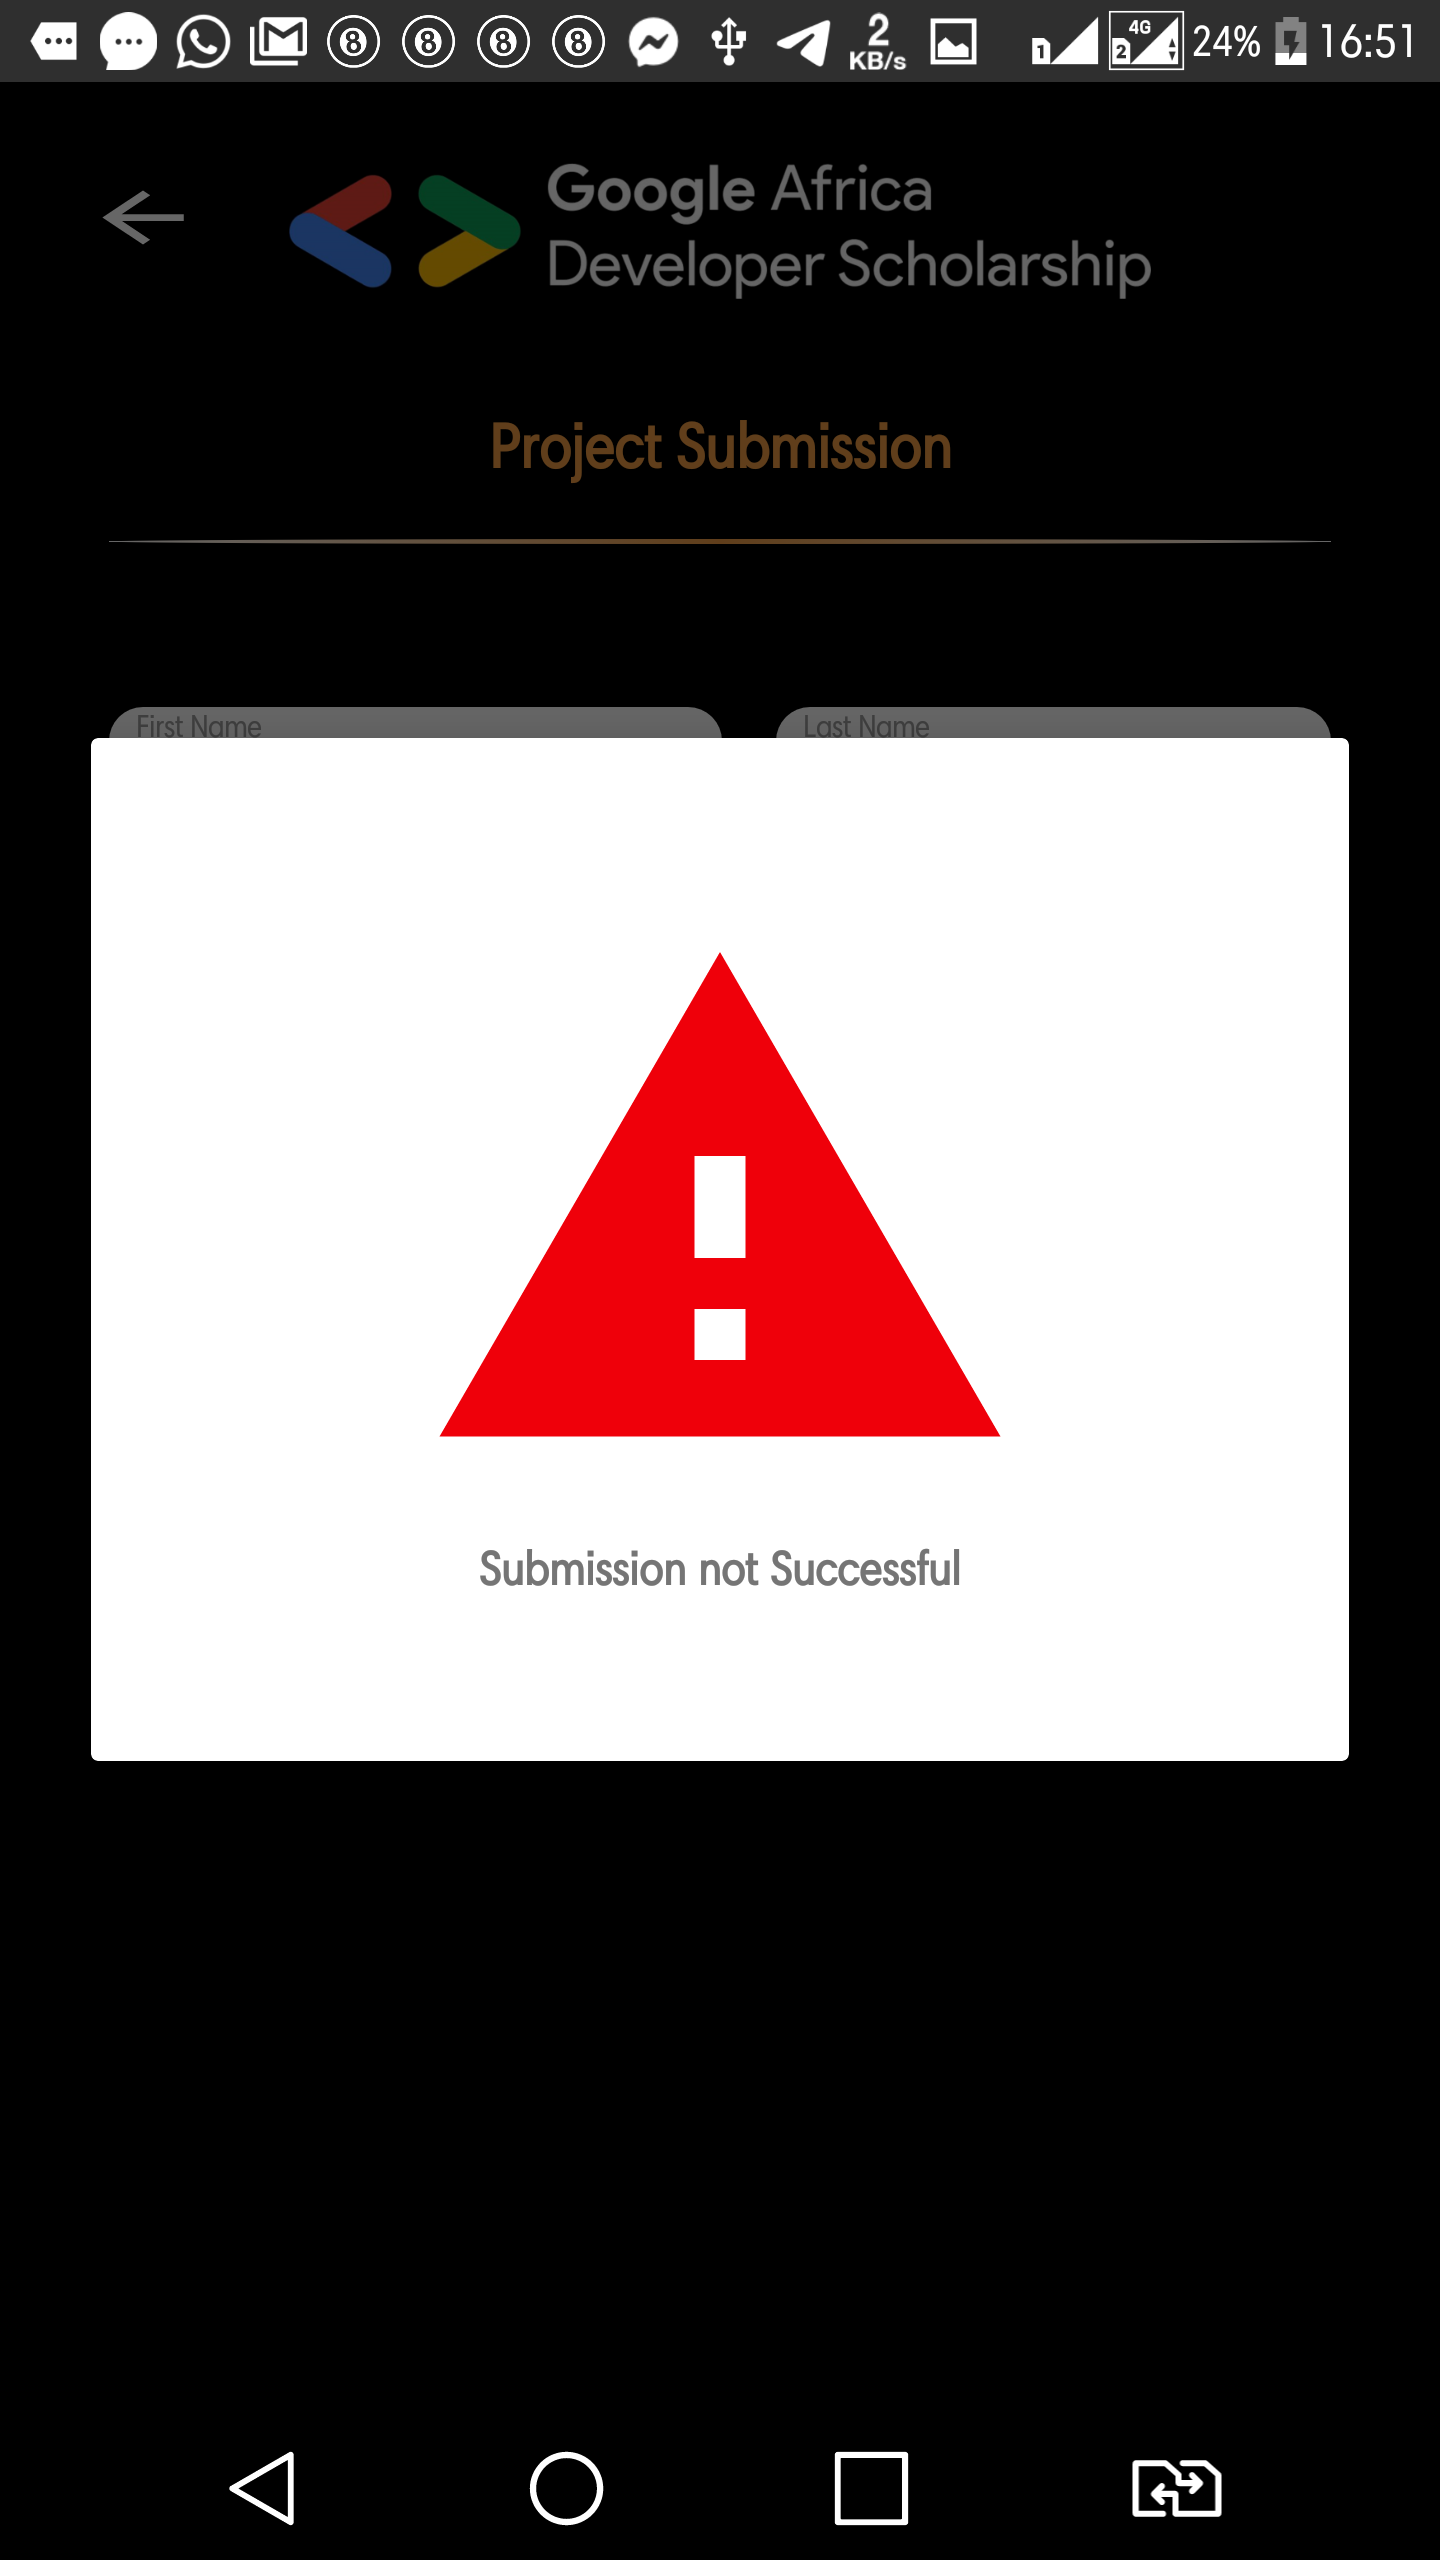
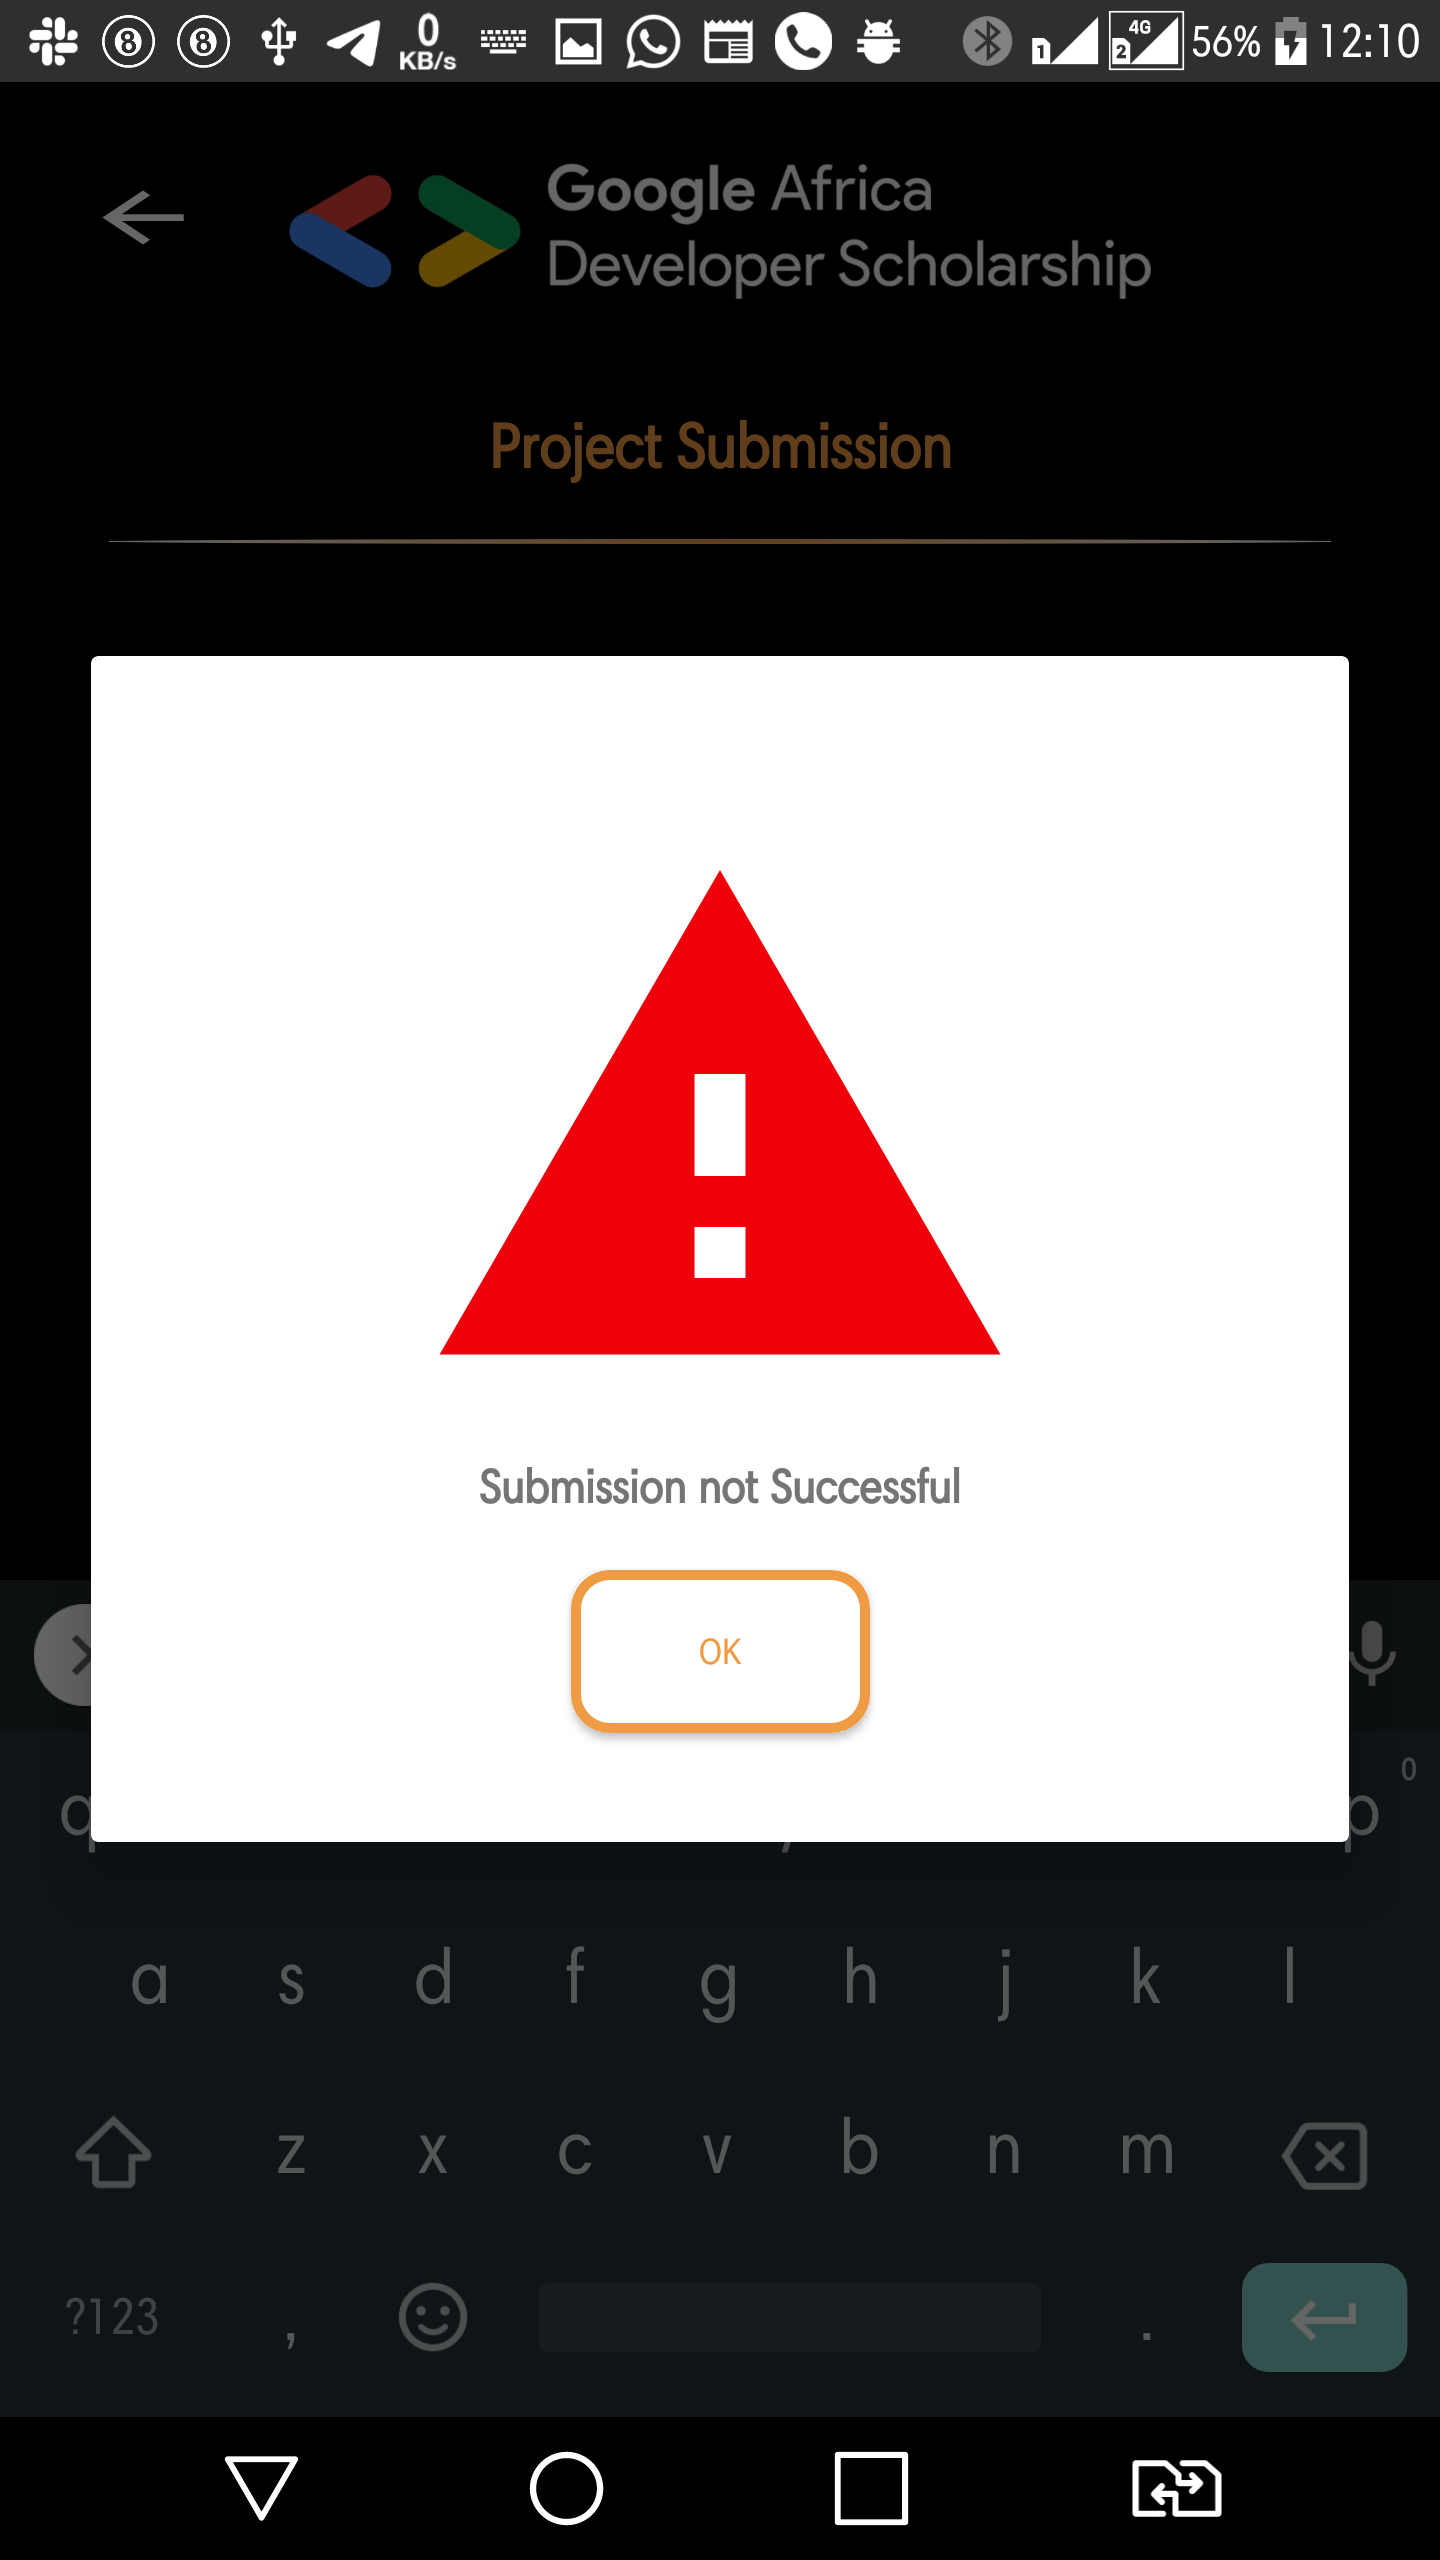
update

diff --git a/app/src/main/java/com/maro/gadspracticeprojectmaroafenogho/SubmissionPage.java b/app/src/main/java/com/maro/gadspracticeprojectmaroafenogho/SubmissionPage.java
@@ -35,7 +35,7 @@ public class SubmissionPage extends AppCompatActivity {
 
     TextInputEditText email, firstName, lastName, projectLink;
     ProgressBar progressBar;
-    Button submit, ok;
+    Button submit, ok, feedbackOk;
     ImageView cancel, backArrow;
     ImageView success;
     TextView done;
@@ -78,17 +78,23 @@ public class SubmissionPage extends AppCompatActivity {
 
     }
 
-    private void showFailureDialog() {
-        progressBar.setVisibility(View.GONE);
+    private void questionDialog(){
         AlertDialog.Builder builder = new AlertDialog.Builder(SubmissionPage.this);
-        View view = View.inflate(this, R.layout.feedback,null);
+        View view = View.inflate(this, R.layout.submit_question,null);
         builder.setView(view);
+        cancel = view.findViewById(R.id.cancel);
+        ok = view.findViewById(R.id.ok_button);
         AlertDialog dialog = builder.create();
         dialog.show();
-        success = view.findViewById(R.id.feedback_image);
-        done = view.findViewById(R.id.feedback_textView);
-        success.setImageResource(R.drawable.ic_baseline_warning_24);
-        done.setText(R.string.sub_failed);
+        cancel.setOnClickListener(v -> {
+            dialog.dismiss();
+
+        });
+        ok.setOnClickListener(v -> {
+            performSubmission();
+            progressBar.setVisibility(View.VISIBLE);
+            dialog.dismiss();
+        });
     }
 
     private void performSubmission(){
@@ -116,23 +122,22 @@ public class SubmissionPage extends AppCompatActivity {
             }
         });
     }
-    private void questionDialog(){
+
+    private void showFailureDialog() {
+        progressBar.setVisibility(View.GONE);
         AlertDialog.Builder builder = new AlertDialog.Builder(SubmissionPage.this);
-        View view = View.inflate(this, R.layout.submit_question,null);
+        View view = View.inflate(this, R.layout.feedback,null);
         builder.setView(view);
-       cancel = view.findViewById(R.id.cancel);
-        ok = view.findViewById(R.id.ok_button);
         AlertDialog dialog = builder.create();
         dialog.show();
-        cancel.setOnClickListener(v -> {
-            dialog.dismiss();
-
+        feedbackOk = view.findViewById(R.id.ok_);
+        feedbackOk.setOnClickListener(v -> {
+            finish();
         });
-        ok.setOnClickListener(v -> {
-            performSubmission();
-            progressBar.setVisibility(View.VISIBLE);
-            dialog.dismiss();
-        });
+        success = view.findViewById(R.id.feedback_image);
+        done = view.findViewById(R.id.feedback_textView);
+        success.setImageResource(R.drawable.ic_baseline_warning_24);
+        done.setText(R.string.sub_failed);
     }
 
     private void showSuccessDialog() {
@@ -142,10 +147,13 @@ public class SubmissionPage extends AppCompatActivity {
         builder.setView(view);
         AlertDialog dialog = builder.create();
         dialog.show();
+        feedbackOk = view.findViewById(R.id.ok_);
+        feedbackOk.setOnClickListener(v -> {
+            finish();
+        });
         success = view.findViewById(R.id.feedback_image);
         done = view.findViewById(R.id.feedback_textView);
         success.setImageResource(R.drawable.ic_baseline_check_circle_24);
         done.setText(R.string.sub_success);
     }
-
 }

diff --git a/app/src/main/java/util/ApiInterface.java b/app/src/main/java/util/ApiInterface.java
@@ -25,7 +25,7 @@ public interface ApiInterface {
 
     @Headers("Content-Type: application/x-www-form-urlencoded")
     @FormUrlEncoded
[1 lines of base64/hex data omitted]
+
[1 lines of base64/hex data omitted]
     Call<ResponseBody> submitProject(
             @Field("entry.1824927963")String email,
@@ -33,7 +33,8 @@ public interface ApiInterface {
             @Field("entry.2006916086")String lastName,
             @Field("entry.284483984")String projectLink
     );
[1 lines of base64/hex data omitted]
+
[1 lines of base64/hex data omitted]
 //    Call<ResponseBody> submitProject(
 //            @Field("entry.2061166757")String email,
 //            @Field("entry.419693947")String firstName,
